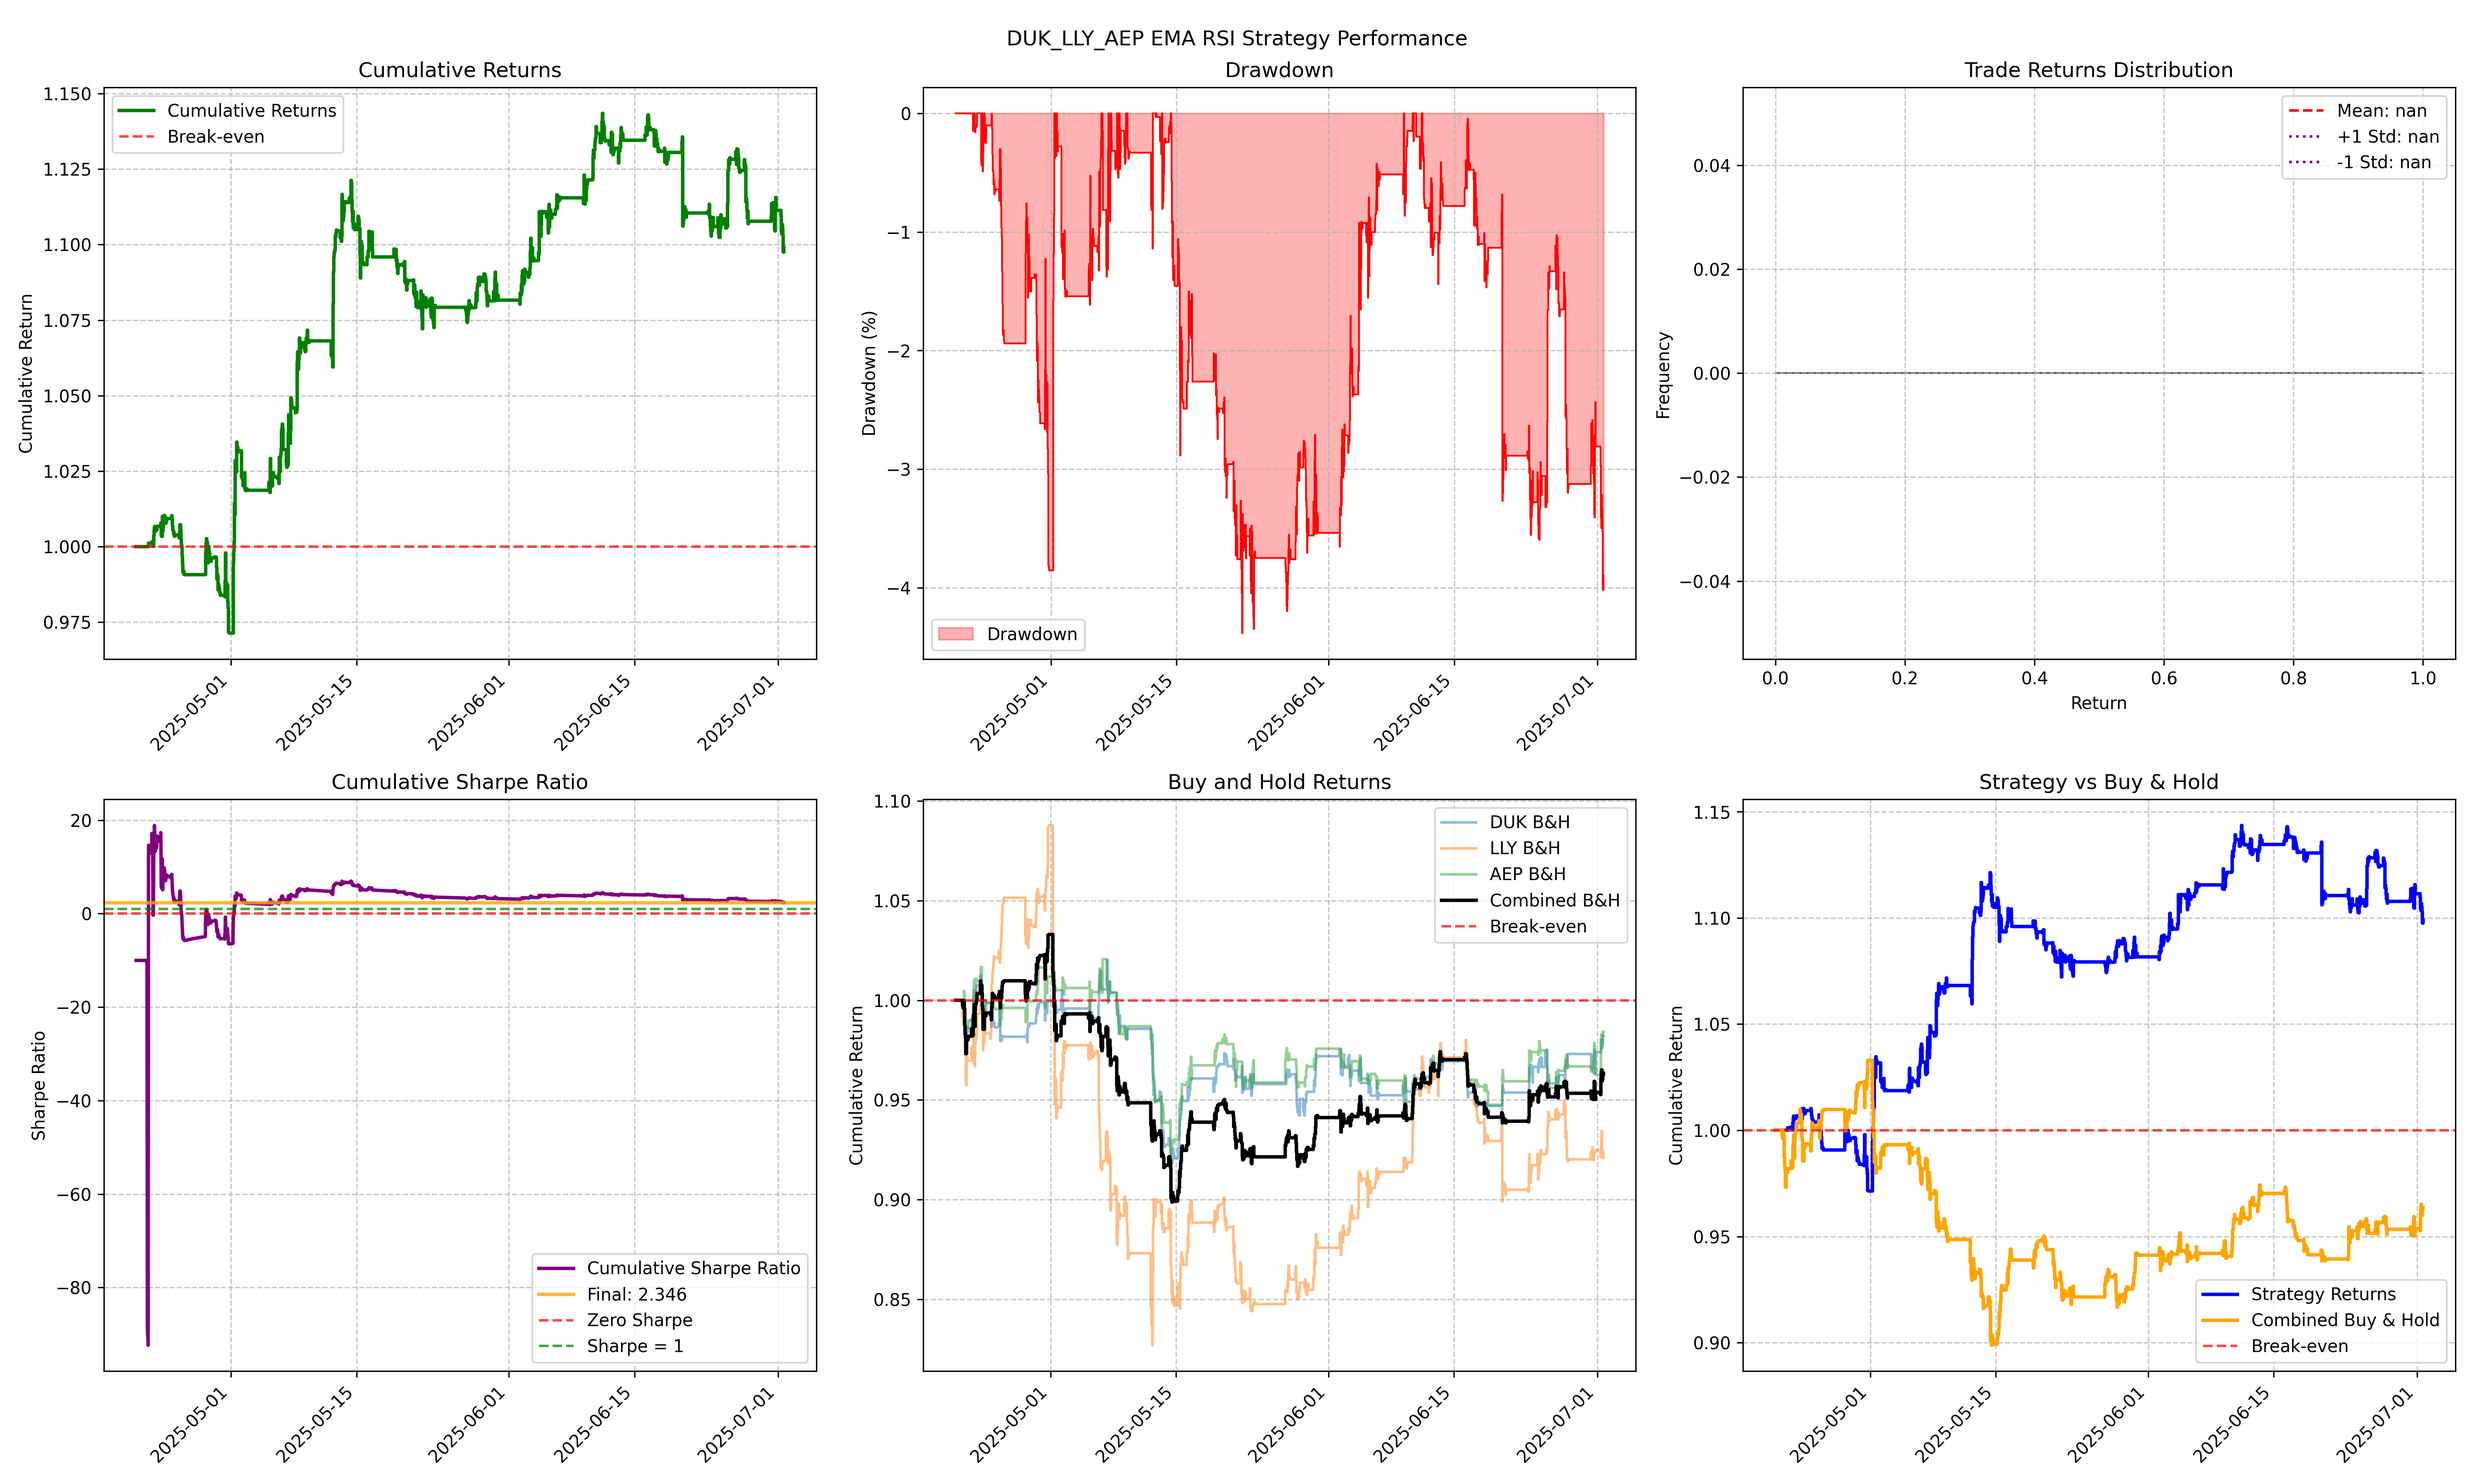
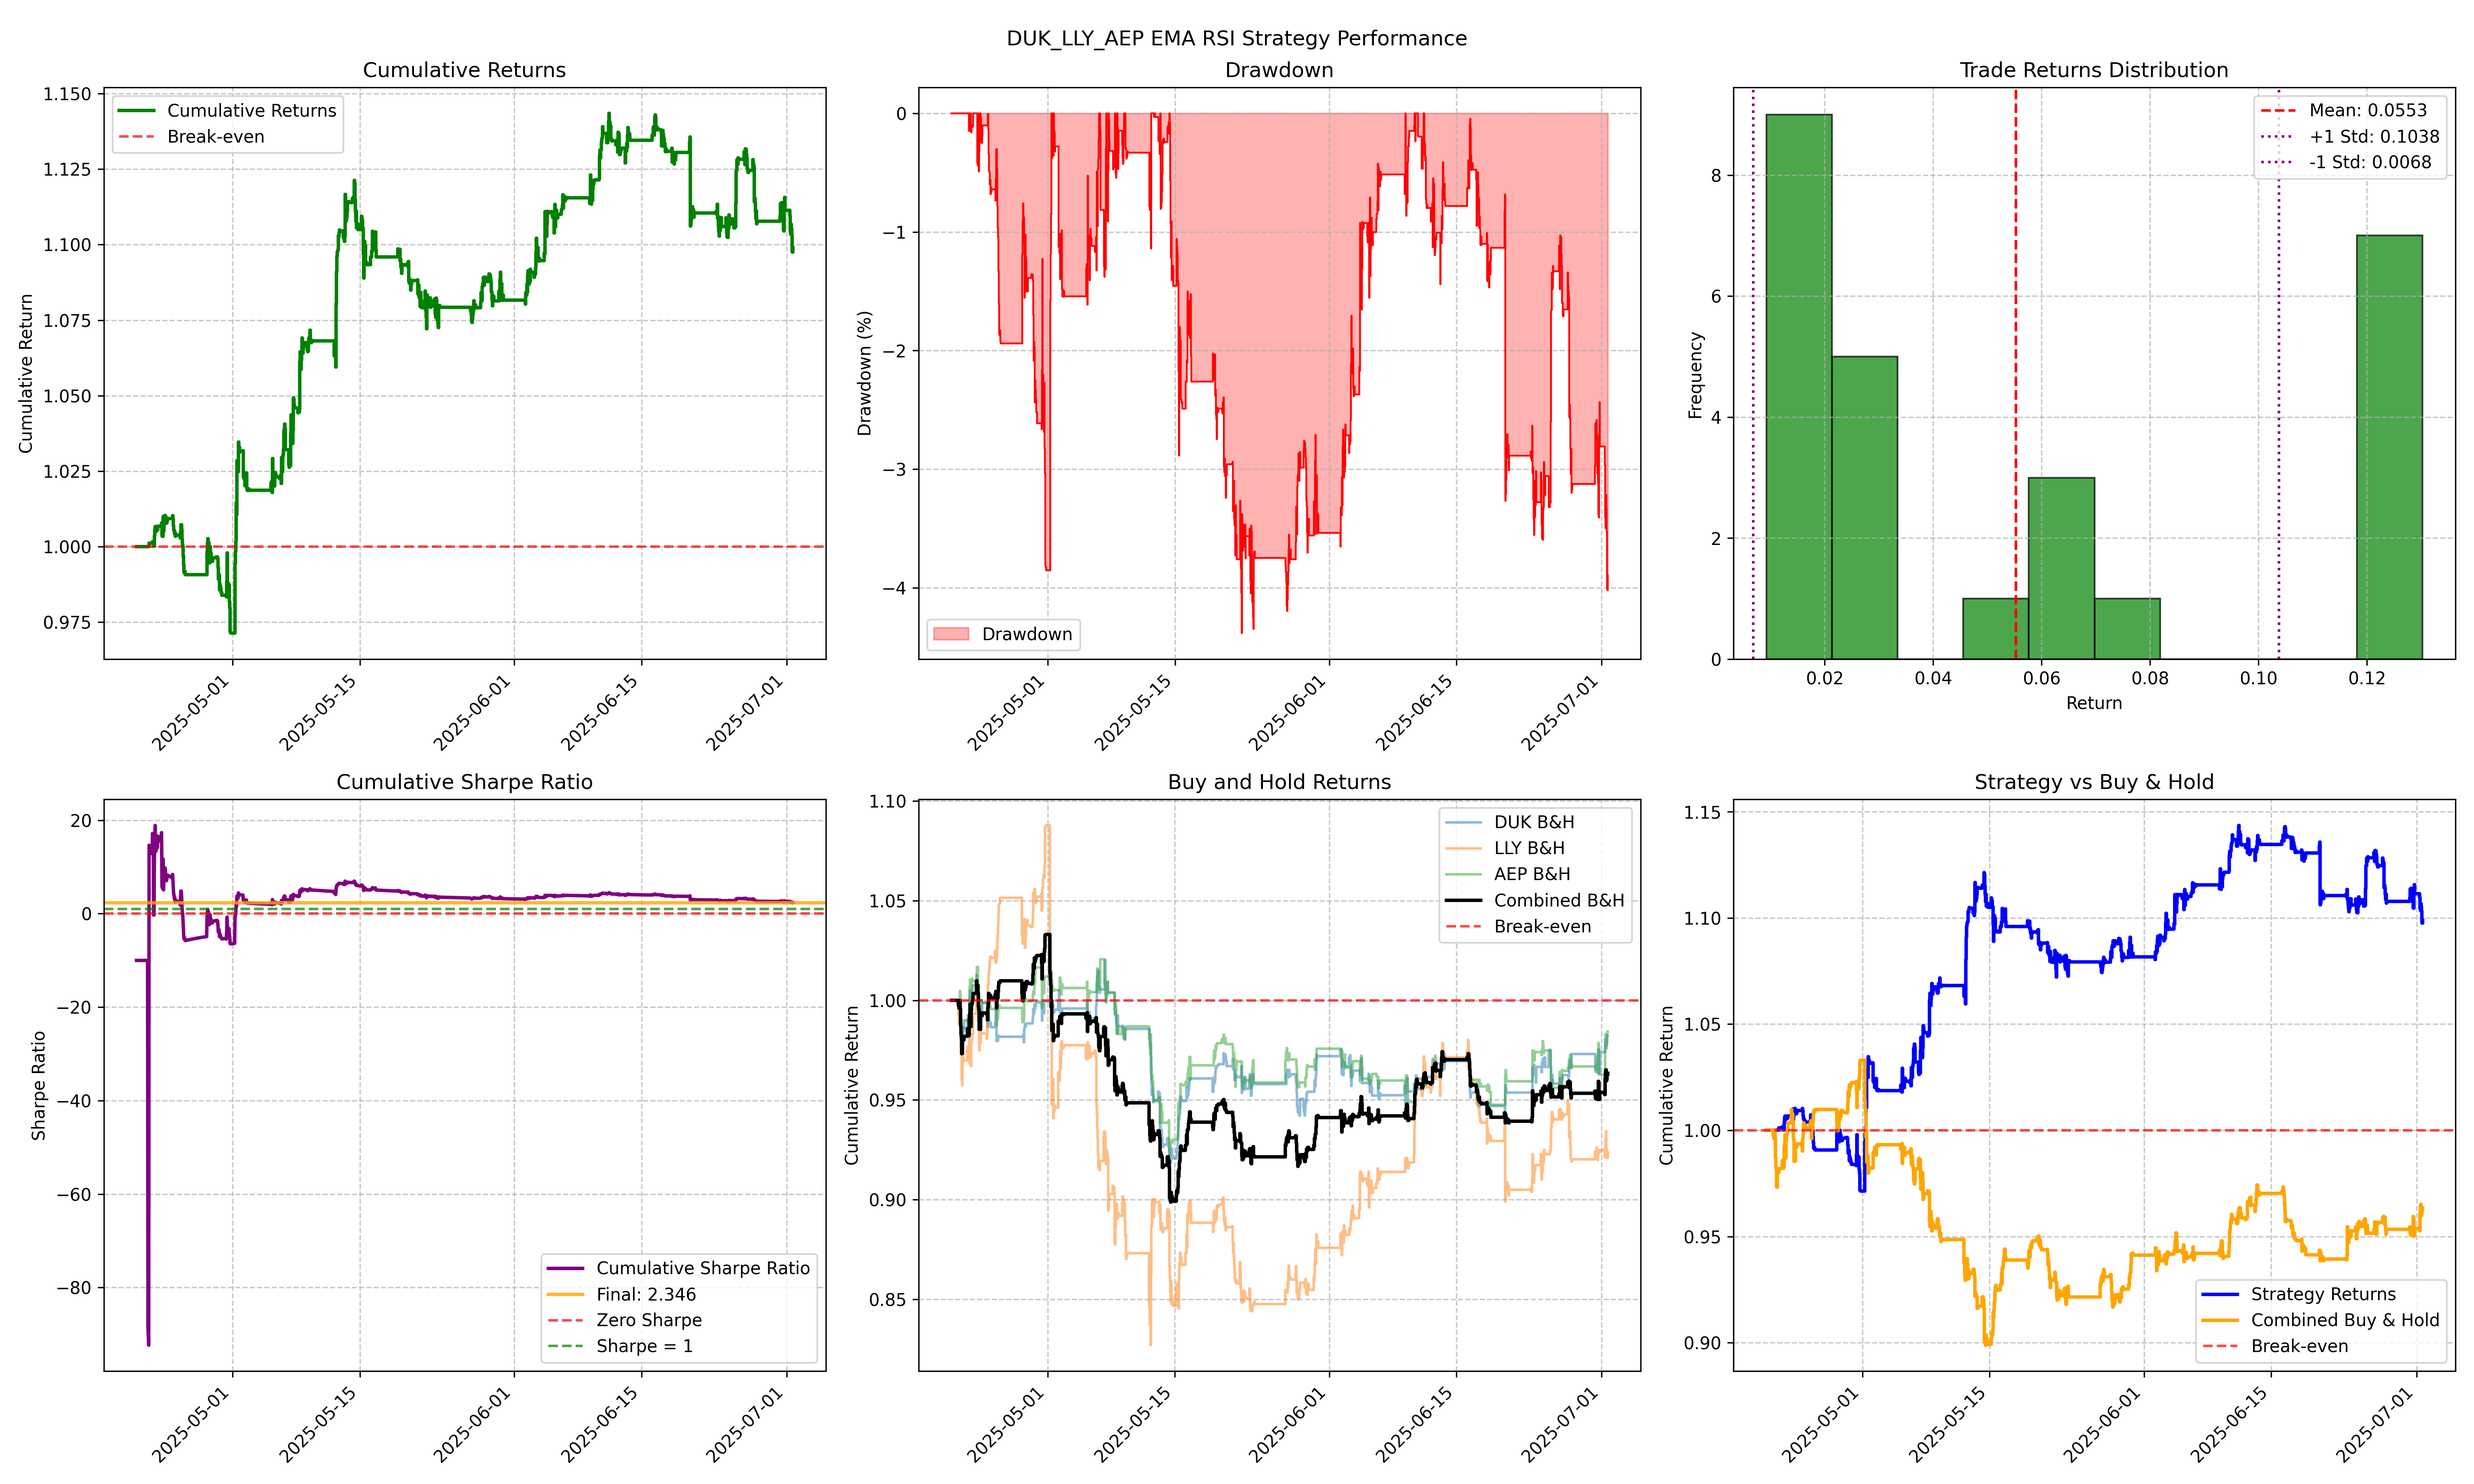
revert so many changes. i just wasted so much time

diff --git a/examples/ema_rsi.py b/examples/ema_rsi.py
@@ -1,0 +1,194 @@
+# %% [markdown]
+# # EMA RSI Strategy
+#
+# Winning ideas:
+# - Hour timeframe
+# - mean reverting stocks
+
+# %%
+from datetime import datetime, timedelta
+import logging
+import pytz
+import pandas as pd
+
+from alpaca.data.timeframe import TimeFrame, TimeFrameUnit
+import pandas as pd
+from talib import ATR, EMA, RSI
+
+from data import (
+    download_bars,
+    separate_bars_by_symbol,
+    split_multi_index_bars_train_test,
+)
+
+from bacta.backtester import EventBacktester, Order, Side
+from bacta.utilities import dash
+from bacta.utilities.logger import get_logger, set_log_level
+logger = get_logger()
+set_log_level(logging.DEBUG)
+
+# %%
+
+
+class EmaStrategy(EventBacktester):
+    """
+    Backtester that uses the Keltner Channel to make decisions.
+    """
+
+    def __init__(self, active_symbols, cash, **kwargs):
+        super().__init__(active_symbols, cash, **kwargs)
+        stretch = 1
+        self.short_ema_period = 21 * stretch
+        self.long_ema_period = 200 * stretch
+        self.rsi_period = 14 * stretch
+        self.rsi_high = 65
+        self.rsi_low = 35
+        self.max_position_value = 700
+
+    def precompute_step(self, bars: pd.DataFrame):
+        """
+        Preload the indicators for the backtest.
+        """
+
+        split_bars = separate_bars_by_symbol(bars)
+
+        self.short_emas = {
+            symbol: EMA(
+                split_bars[symbol].loc[:,
+                                       "close"], timeperiod=self.short_ema_period
+            )
+            for symbol in self.active_symbols
+        }
+        self.long_emas = {
+            symbol: EMA(
+                split_bars[symbol].loc[:,
+                                       "close"], timeperiod=self.long_ema_period
+            )
+            for symbol in self.active_symbols
+        }
+        self.rsis = {
+            symbol: RSI(split_bars[symbol].loc[:, "close"],
+                        timeperiod=self.rsi_period)
+            for symbol in self.active_symbols
+        }
+
+    def update_step(self, bars: pd.DataFrame, index: pd.Timestamp):
+        """
+        Update the state of the backtester.
+        """
+        split_bars = separate_bars_by_symbol(bars)
+
+        self.short_emas = {
+            symbol: EMA(
+                split_bars[symbol].loc[:,
+                                       "close"], timeperiod=self.short_ema_period
+            )
+            for symbol in self.active_symbols
+        }
+        self.long_emas = {
+            symbol: EMA(
+                split_bars[symbol].loc[:,
+                                       "close"], timeperiod=self.long_ema_period
+            )
+            for symbol in self.active_symbols
+        }
+        self.rsis = {
+            symbol: RSI(split_bars[symbol].loc[:, "close"],
+                        timeperiod=self.rsi_period)
+            for symbol in self.active_symbols
+        }
+
+    def generate_orders(self, bar: pd.DataFrame, index: pd.Timestamp) -> list[Order]:
+        """
+        Make a decision based on the prices.
+        """
+        close_prices = bar.loc[:, "close"]
+        # short ema is 21, long ema is 200
+        # rsi is 14
+        # if rsi is > 75 and short ema is > long ema, then short
+        # if rsi is < 25 and short ema is < long ema, then long
+        orders = []
+
+        for symbol in self.active_symbols:
+            position_value = abs(self.get_position(
+                symbol)*close_prices[symbol]) if self.get_position(symbol) != 0 else 0
+
+            quantity = round(200 / close_prices[symbol], 4)
+            if (
+                self.rsis[symbol][index] > self.rsi_high
+                and self.short_emas[symbol][index] > self.long_emas[symbol][index]
+            ) and position_value < self.max_position_value:
+                orders.append(
+                    Order(symbol, Side.SELL,
+                          close_prices[symbol], quantity)
+                )
+            elif (
+                self.rsis[symbol][index] < self.rsi_low
+                and self.short_emas[symbol][index] < self.long_emas[symbol][index]
+            ) and position_value < self.max_position_value:
+                orders.append(
+                    Order(symbol, Side.BUY,
+                          close_prices[symbol], quantity)
+                )
+
+        return orders
+
+
+# %%
+symbols = ["DUK", "LLY", "AEP"]
+
+shift = - timedelta(days=1)
+bars = download_bars(
+    symbols,
+    start_date=datetime(2025, 4, 1) - shift,
+    end_date=datetime(2025, 7, 1) - shift,
+    timeframe=TimeFrame(1, TimeFrameUnit.Hour)
+)
+# split the bars into train and test
+train_bars, test_bars = split_multi_index_bars_train_test(
+    bars, split_ratio=0.2)
+
+# create the backtester
+backtester = EmaStrategy(
+    symbols,
+    cash=2000,
+    allow_short=True,
+    allow_overdraft=False,
+    min_cash_balance=200,
+    min_trade_value=1,
+    market_hours_only=True,
+    transaction_cost=0.000,
+    transaction_cost_type="percentage",
+)
+
+# preload the train bars
+backtester.load_train_bars(train_bars)
+
+# run_backtest the backtest
+backtester.run_backtest(test_bars)
+
+# plot the order and state history
+print(dash("order history"))
+print(backtester.get_history())
+print(dash("state history"))
+print(backtester.get_state_history())
+
+# %%
+# plot the performance
+print(dash("performance"))
+print(backtester.pretty_format_performance())
+
+# %%
+# Plot the results
+print("plotting...")
+backtester.plot_performance_analysis(
+    title="_".join(symbols) + " EMA RSI Strategy Performance", show_plot=False)
+
+# %%
+backtester.plot_trade_history(title="_".join(
+    symbols) + " EMA RSI Strategy Trades", show_plot=False)
+
+# %%
+backtester.plot_equity_curve(
+    title="_".join(symbols) + " EMA RSI Strategy Equity Curve", show_plot=False
+)
